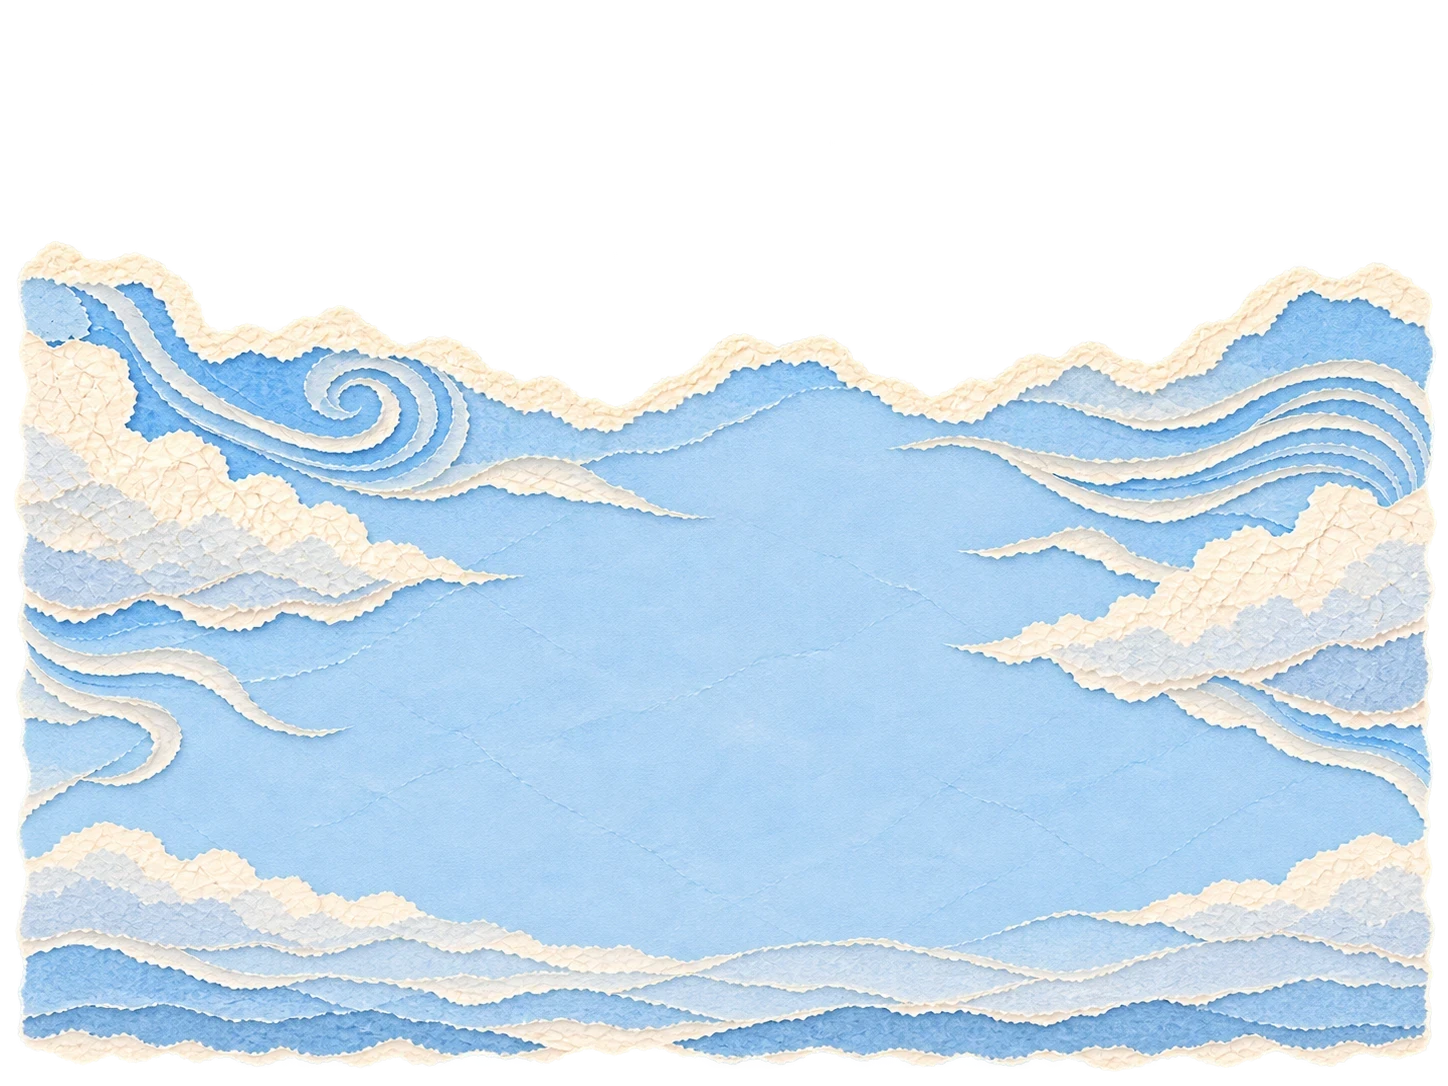
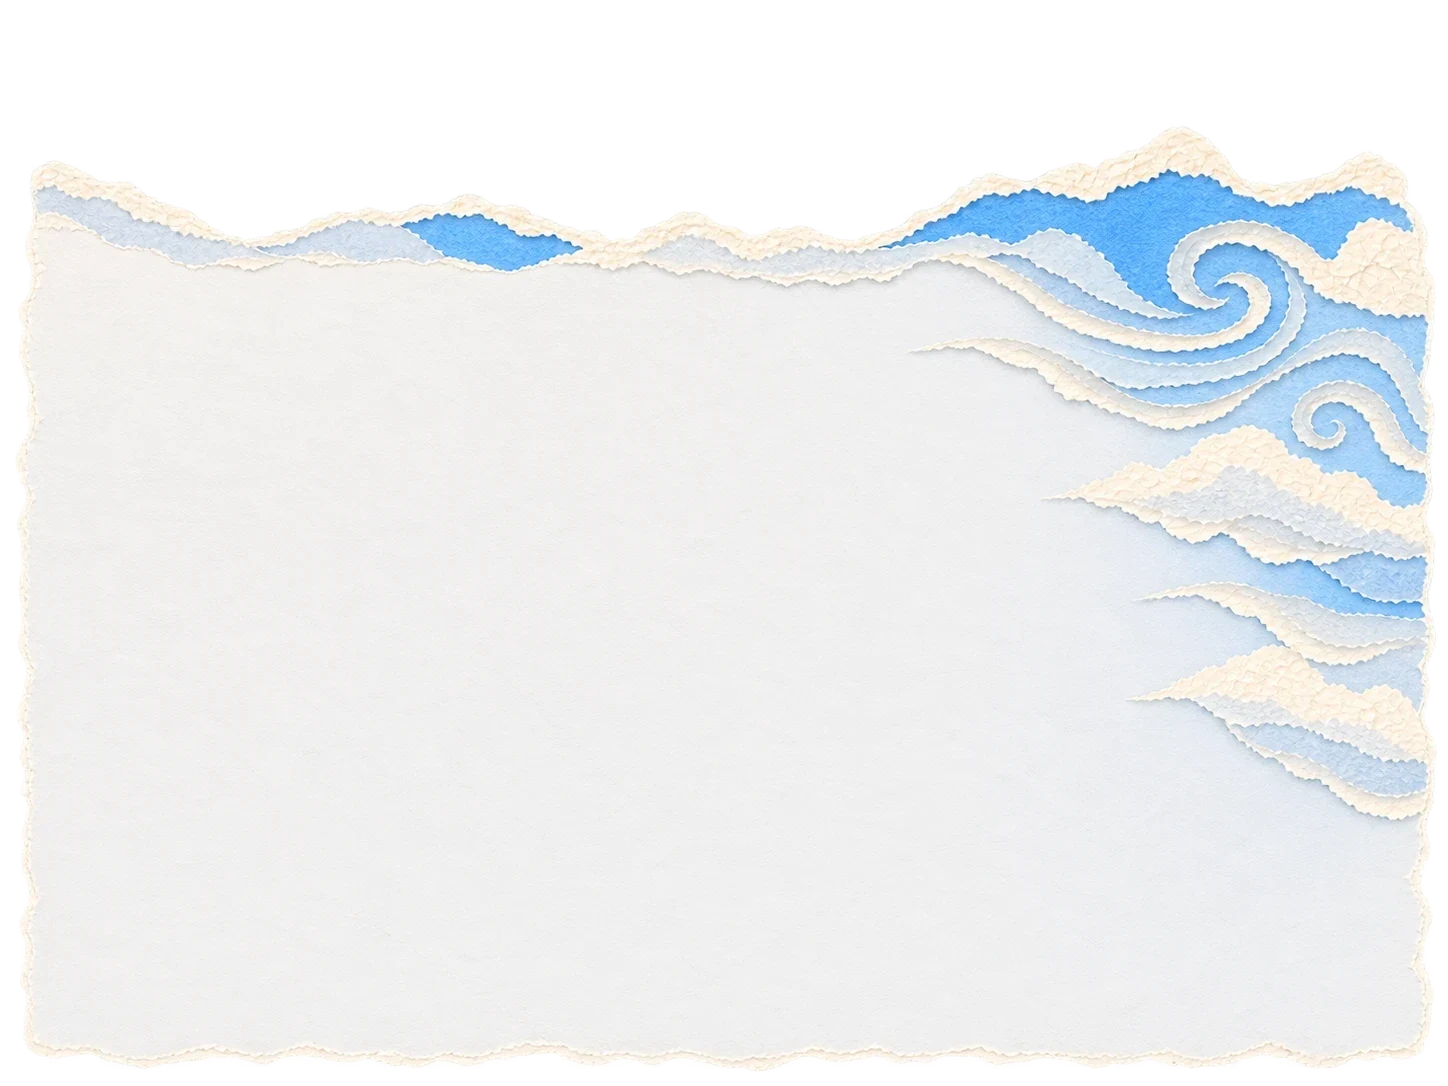
Homepage rebrand (not published): calmer desktop Earned art, navy views/visitors, clean shirt cut-out
- Desktop Earned layers replaced with Mercedes's calmer set (mist on the left, swirls down the right);
  copy on the mist, vertically centred (worst-case contrast over the art 14.9:1).
- Only the sales count stays light blue; views + visitors numbers back to navy.
- shirt-1k-graphite-front-cut-clean.webp: the cut-out without its pale haze (no light box on the art).

diff --git a/website/scrolly-site/home.css b/website/scrolly-site/home.css
@@ -61,7 +61,7 @@ body:has(.hp){margin:0;background:#f7f3ec}
 .hp-calc .go:hover{background:var(--ink);color:#fff}
 .hp-calc .res{display:flex;flex-direction:column;align-items:flex-start}
 .hp-calc .res .row{display:flex;align-items:baseline;justify-content:flex-start;gap:18px}
-/* result numbers in light blue (Mercedes 2026-10-20). #2f86ea, not the sky #4da3ff: 3.3:1 on cream, enough only for these display sizes */
+/* the main result (sales count) in light blue (Mercedes 2026-10-20; views + visitors stay navy). #2f86ea, not the sky #4da3ff: 3.3:1 on cream, enough only for these display sizes */
 .hp-calc .num{font:400 5.5rem/1 var(--serif);color:#2f86ea}
 .hp-calc .word{font:400 clamp(1.9rem,2.6vw,2.5rem)/1 var(--serif)}
 .hp-calc .cap{margin-top:10px;font:400 1.75rem/1.3 var(--sans)}
@@ -69,7 +69,7 @@ body:has(.hp){margin:0;background:#f7f3ec}
 .hp-calc .more{margin:0 0 20px;padding-bottom:20px;border-bottom:1px solid var(--line)}
 .hp-calc .more>div{display:flex;align-items:baseline;gap:12px}
 .hp-calc .more>div+div{margin-top:6px}
-.hp-calc .more .n{font:400 2.5rem/1.15 var(--serif);color:#2f86ea}
+.hp-calc .more .n{font:400 2.5rem/1.15 var(--serif);color:var(--ink)}
 .hp-calc .more dd{margin:0;font:400 1.375rem/1.3 var(--sans)}
 
 /* clubs */
@@ -176,7 +176,7 @@ body:has(.hp){margin:0;background:#f7f3ec}
 }
 
 /* Earned collage (Mercedes 2026-10-20). Three transparent torn-paper layers stacked sky, clouds, strips, all the same size: width-based,
-   never cover, centred at the top, no repeat. They are wider than the section, so their torn SIDE edges stay off-screen; the section takes
+   never cover, centred at the top, no repeat (desktop = Mercedes's calmer 2026-10-20 set: mist on the left, swirls down the right). They are wider than the section, so their torn SIDE edges stay off-screen; the section takes
    the art's height, so the torn top and bottom edges meet the off-white page. Desktop layers 1448x1086 at 106%, phone 1024x1536 at 112%
    (<picture> swaps them at 901px). */
 .hp-earned .earned-art img{display:block;position:absolute;top:0;left:50%;max-width:none;height:auto;transform:translateX(-50%)}
@@ -185,8 +185,8 @@ body:has(.hp){margin:0;background:#f7f3ec}
  .hp-earned .earned-art{position:absolute;inset:0;z-index:0}
  .hp-earned .earned-art img{width:106%}
  .hp-earned .wrap{position:absolute;inset:0;z-index:1;width:auto;margin:0;display:block}
- /* copy in the calm pale-blue sky below the top swirls and left of the shirt (measured: the calmest box starts ~49% down, ~20% in) */
- .hp-earned .copy{position:absolute;left:20%;top:47%;width:36%;padding:0}
+ /* copy on the pale mist that fills the left two-thirds of the calmer desktop art (2026-10-20 set), vertically centred */
+ .hp-earned .copy{position:absolute;left:9%;top:50%;width:40%;padding:0;transform:translateY(-50%)}
  .hp-earned h2{font-size:clamp(2rem,2.6vw,3.4rem)}
  .hp-earned h2 span{display:block;white-space:nowrap}
  .hp-earned p{max-width:none}
